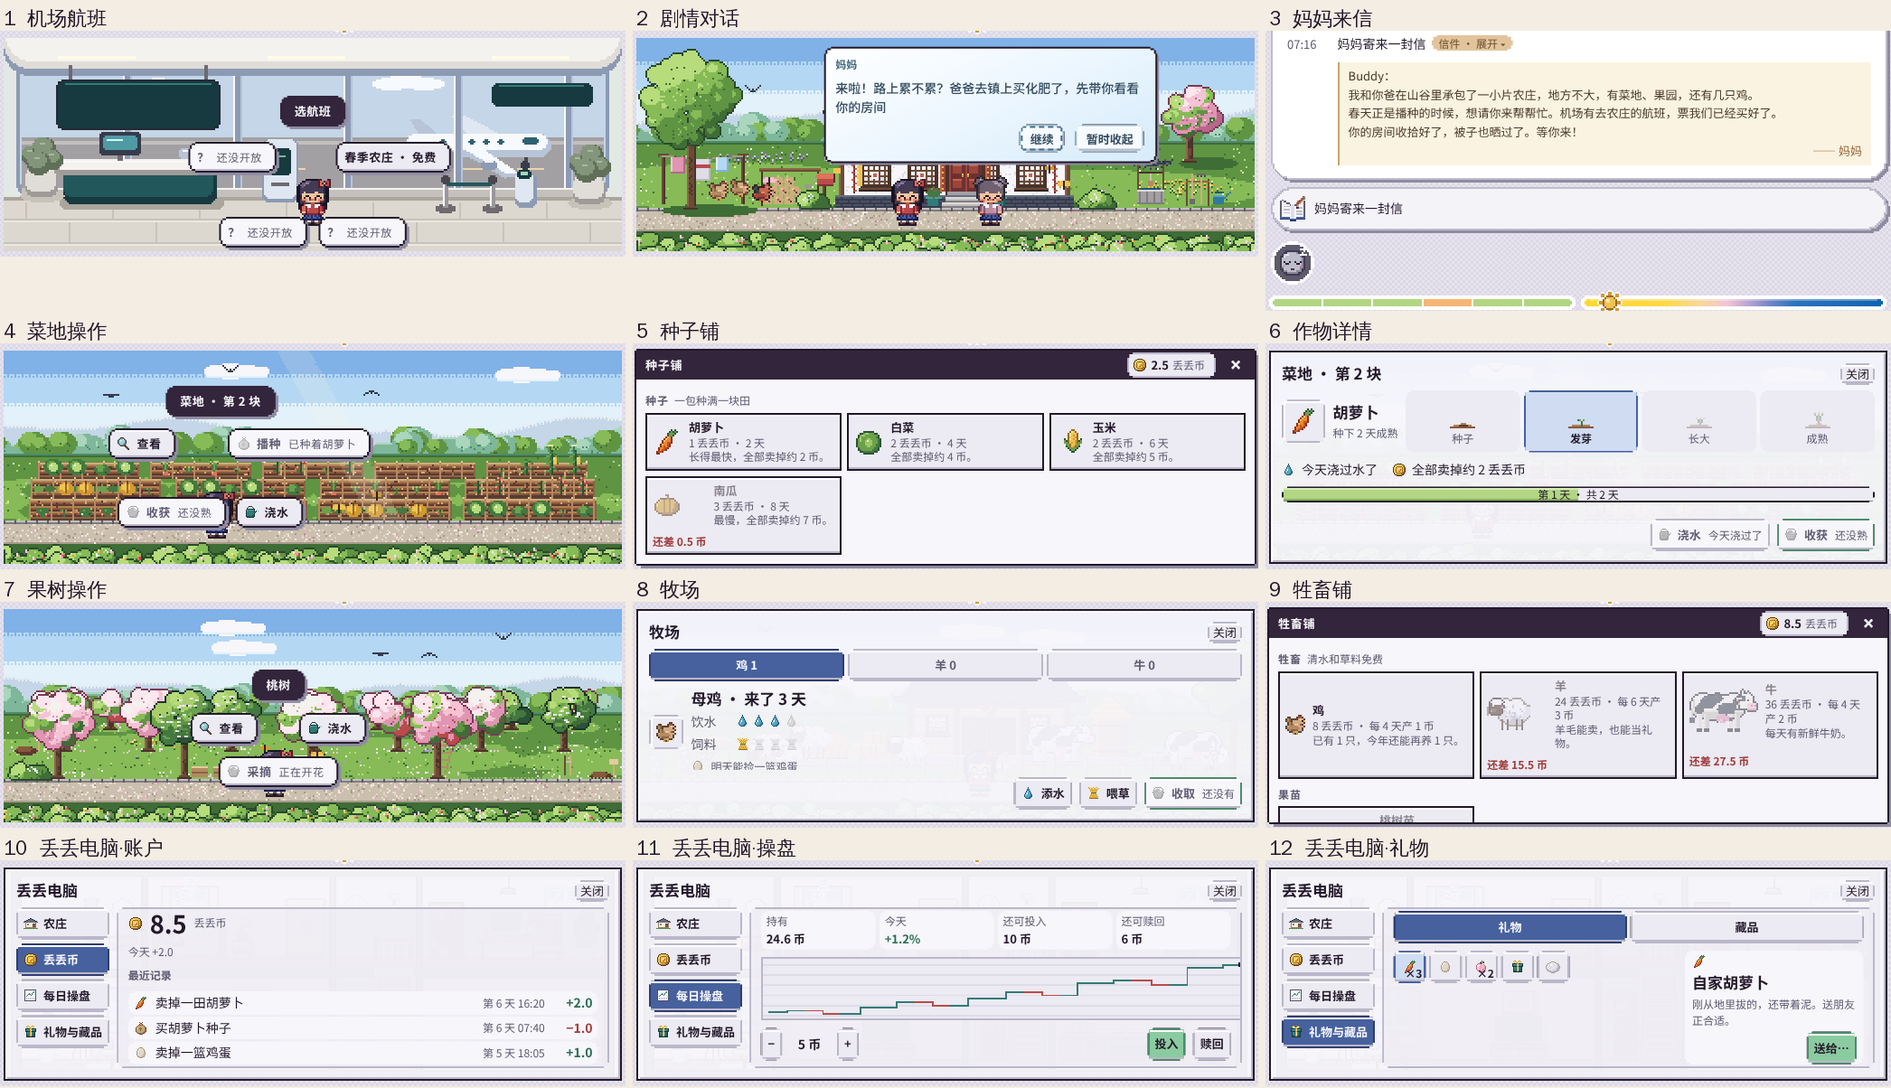
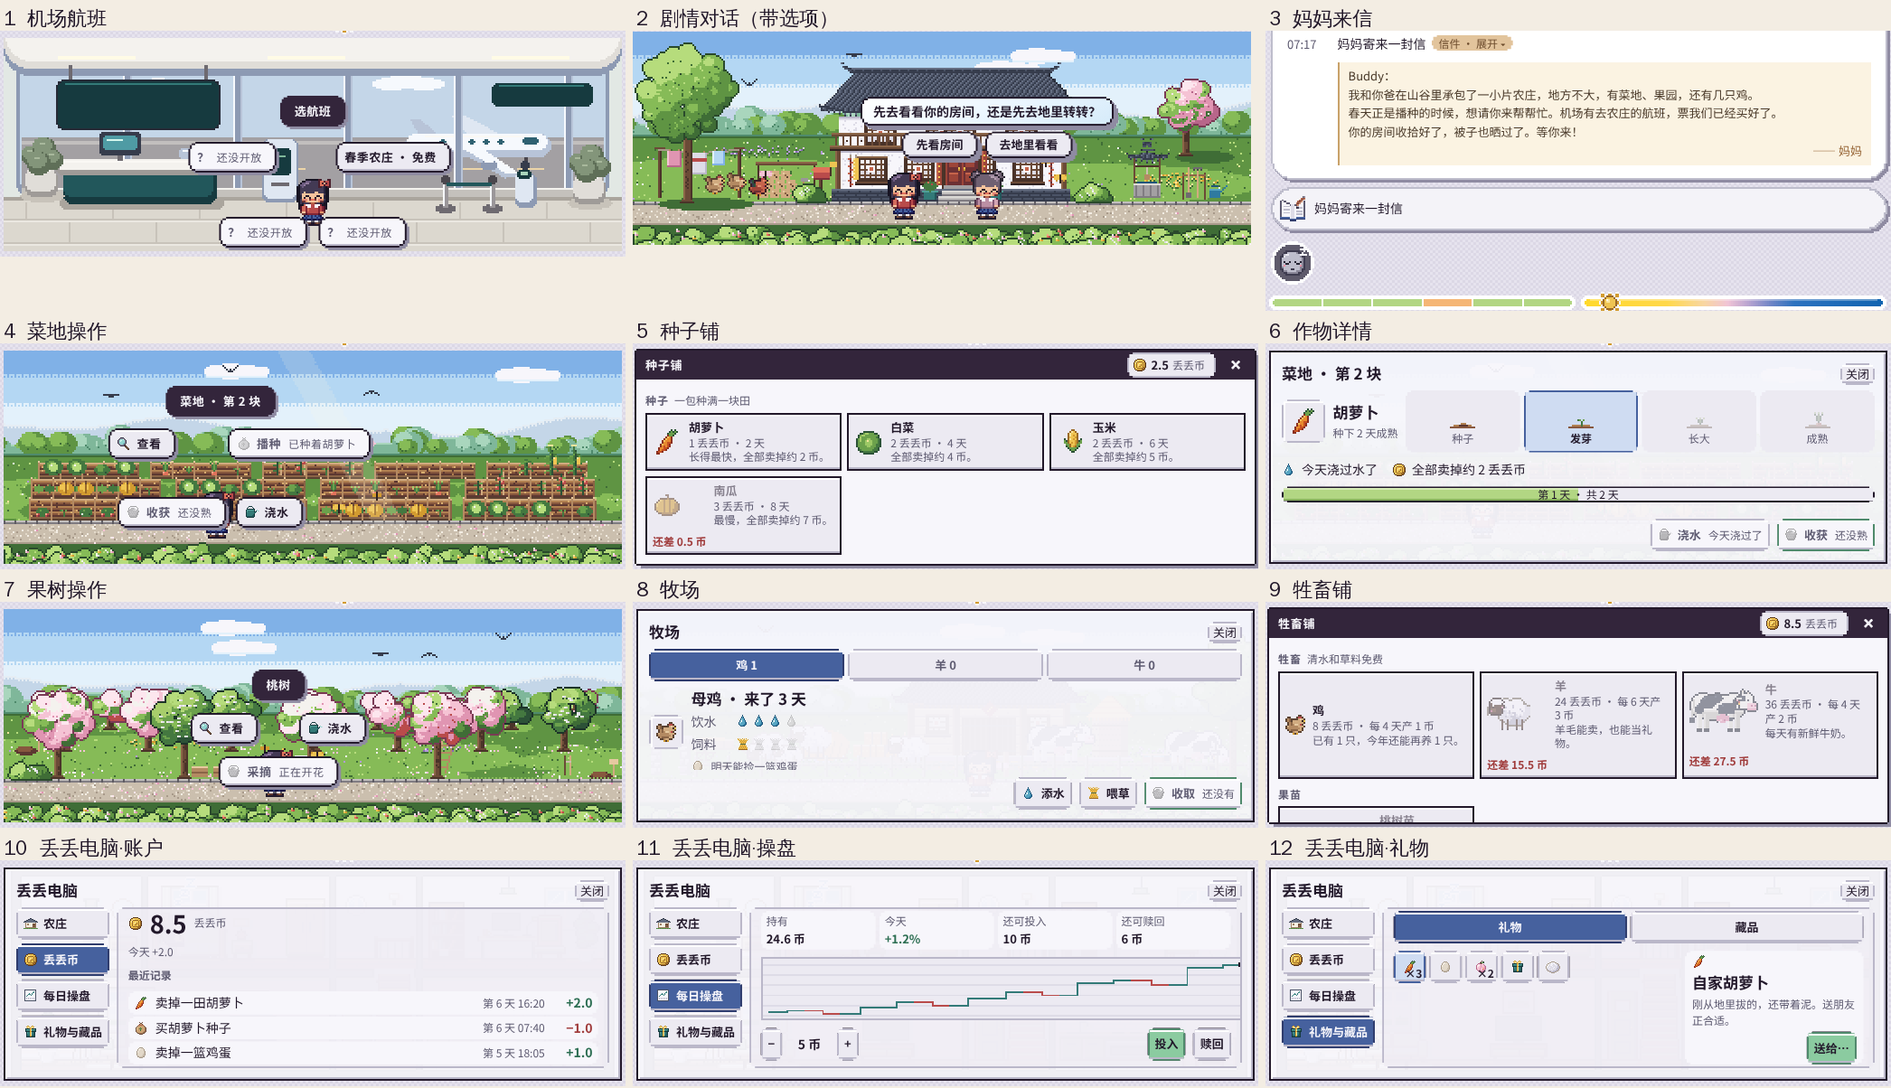
剧情对白改用 NPC 头顶小气泡：点气泡继续，选项画在气泡下面
Claude-Session: https://claude.ai/code/session_01HP37xpvuwwsvGpZEAk6w5s

Changed region(s): [[0.3107, 0.0, 0.6836, 0.2458]]

diff --git a/prototype/demo/story_bubbles.js b/prototype/demo/story_bubbles.js
@@ -1,22 +1,39 @@
-// Shared story speech uses the native NPC pill skin/motion; never a full-scene panel.
+// Story speech IS the native NPC pill (owner, 2026-11-02): the same small rounded
+// bubble strangers talk in, over the speaker's head. No panel, no 继续 button: click
+// the bubble (or Enter / Space) for the next line; a blinking pixel ▼ says there is
+// more. Choices are pills right under the bubble. Esc folds it away (onClose).
+// Quest lines tint the bubble white -> pale blue. Off-screen speakers are named and
+// stay where they are (the bubble sits at the top of the scene), never teleported.
 function createStorySpeech({view,host=view.parentElement,anchor,onClose=()=>{}}){
- const el=document.createElement('section');el.className='npcsay story-speech';el.hidden=true;
+ const el=document.createElement('section');el.className='story-speech';el.hidden=true;
  el.setAttribute('role','dialog');el.setAttribute('aria-label','剧情对话');
- const name=document.createElement('strong'),text=document.createElement('div'),actions=document.createElement('div');
- name.className='story-speaker';text.className='story-words';text.setAttribute('aria-live','polite');actions.className='story-actions';
- const next=document.createElement('button'),exit=document.createElement('button');next.type=exit.type='button';exit.textContent='暂时收起';exit.onclick=onClose;actions.append(next,exit);el.append(name,text,actions);host.append(el);
- let who='',previous=null;
+ const bubble=document.createElement('div'),name=document.createElement('span'),text=document.createElement('span'),more=document.createElement('i'),choices=document.createElement('div');
+ bubble.className='story-bubble';bubble.tabIndex=0;bubble.setAttribute('role','button');
+ name.className='story-speaker';text.className='story-words';text.setAttribute('aria-live','polite');more.className='story-more';more.setAttribute('aria-hidden','true');choices.className='story-choices';
+ bubble.append(name,text,more);el.append(bubble,choices);host.append(el);
+ let who='',previous=null,advance=null;
  function position(){if(el.hidden)return;const box=view.getBoundingClientRect(),parent=host.getBoundingClientRect(),s=box.width/342,p=anchor(who);
-  const visible=p&&p.x>=0&&p.x<=342&&p.y>=0&&p.y<=box.height/s;
-  name.textContent=who+(visible?'':' · 画外');el.dataset.remote=String(!visible);
-  el.style.width=Math.min(box.width-16,Math.max(250,box.width*.54))+'px';el.style.maxHeight=Math.max(90,box.height-12)+'px';
-  const x=visible?p.x*s:box.width/2,y=visible?(p.y-30)*s:box.height;
-  const w=el.offsetWidth,h=el.offsetHeight,left=Math.max(8,Math.min(box.width-w-8,x-w/2));
-  let top=y-h-7;if(top<6)top=Math.min(box.height-h-6,Math.max(6,y+34*s));
-  el.style.left=box.left-parent.left+left+w/2+'px';el.style.top=box.top-parent.top+Math.max(6,top)+h+'px';
+  const visible=!!p&&p.x>=0&&p.x<=342&&p.y>=0&&p.y<=box.height/s;
+  name.textContent=visible?'':who+'（画外）';name.hidden=visible;el.dataset.remote=String(!visible);
+  el.style.setProperty('--story-w',Math.round(Math.min(box.width-16,Math.max(170,box.width*.46)))+'px');
+  const w=el.offsetWidth,h=el.offsetHeight;
+  const x=Math.max(8+w/2,Math.min(box.width-8-w/2,visible?p.x*s:box.width/2));
+  const bottom=Math.max(h+4,visible?(p.y-29)*s:h+6*s);                            // just above the head
+  el.style.left=box.left-parent.left+x+'px';el.style.top=box.top-parent.top+Math.min(box.height-4,bottom)+'px';
  }
- function show(speaker,words,{special=true,last=false,advance}={}){if(el.hidden)previous=document.activeElement;who=speaker;el.hidden=false;el.classList.toggle('quest-speech',special);text.textContent=spokenText(words);next.textContent=last?'说完了':'继续';next.onclick=advance;position();next.focus({preventScroll:true});}
- function hide(){el.hidden=true;next.onclick=null;if(previous?.isConnected)previous.focus({preventScroll:true});previous=null;}
+ function show(speaker,words,{special=true,last=false,advance:next,choices:opts=null}={}){
+  if(el.hidden)previous=document.activeElement;who=speaker;advance=opts?null:next;
+  el.hidden=false;el.classList.toggle('quest-speech',special);el.classList.remove('pop');void el.offsetWidth;el.classList.add('pop');
+  text.textContent=spokenText(words);more.hidden=!!opts;bubble.dataset.last=String(last);
+  bubble.setAttribute('aria-label',`${speaker}：${text.textContent}${opts?'':last?'（点一下结束）':'（点一下继续）'}`);
+  choices.replaceChildren(...(opts||[]).map(o=>{const b=document.createElement('button');b.type='button';b.textContent=o.label;b.onclick=e=>{e.stopPropagation();o.on?.();};return b;}));
+  choices.hidden=!opts;position();(opts?choices.querySelector('button'):bubble).focus({preventScroll:true,focusVisible:false});
+ }
+ const go=e=>{if(!advance)return;e?.preventDefault?.();e?.stopPropagation?.();advance();};
+ bubble.addEventListener('click',go);
+ bubble.addEventListener('keydown',e=>{if(e.key==='Enter'||e.key===' ')go(e);});
+ el.addEventListener('keydown',e=>{if(e.key==='Escape'){e.preventDefault();e.stopPropagation();onClose();}});
+ function hide(){el.hidden=true;advance=null;choices.replaceChildren();if(previous?.isConnected)previous.focus({preventScroll:true});previous=null;}
  const observer=new ResizeObserver(position);observer.observe(view);window.addEventListener('resize',position);
  return {el,show,hide,position,get open(){return !el.hidden}};
 }

diff --git a/prototype/demo/ui.css b/prototype/demo/ui.css
@@ -836,8 +836,35 @@ button.fb-pill:focus-visible { outline: 2px dashed var(--fb-deep); outline-offse
 /* the pet's menu stands in one column (pet_hud.js petColumnLayout): pills one width */
 .ring.over-hud > button { min-width: 7.2em; text-align: center; }
 
-/* Story speech shares npcsay's pixel outline and pop-in, quest tint is opt-in. */
-.npcsay.quest-speech::after{background:linear-gradient(155deg,#fff 0%,#edf7ff 48%,#d6ebfa 100%)}
-.npcsay.story-speech{z-index:1800;pointer-events:auto;white-space:normal;box-sizing:border-box;padding:10px 13px;display:flex;flex-direction:column;gap:7px;font-size:max(13px,var(--ui-font-body));line-height:1.5;color:#344c60;overflow:visible}
-.story-speech[hidden]{display:none}.story-speaker{font-size:max(12px,var(--ui-font-caption));color:#42677f;flex:none}.story-words{overflow:auto;min-height:0;overflow-wrap:anywhere;font-weight:500}.story-actions{display:flex;justify-content:flex-end;gap:8px;flex:none}.story-actions button{font:inherit;font-size:max(12px,var(--ui-font-control));padding:4px 10px;background:#f7fbff;color:#344c60;border:2px solid #9db9ca;clip-path:var(--clip-btn);cursor:pointer}.story-actions button:focus-visible{outline:2px dashed #3c6e91;outline-offset:-4px}
-@media(prefers-reduced-motion:reduce){.story-speech{animation:none}}
+/* Story speech = the native NPC pill over the speaker's head (owner 2026-11-02):
+   same edge, fill, corners, shadow and pop-in as .npcsay; it only wraps longer lines.
+   Choices are ring-style pills under it. Quest lines: white -> pale blue fill. */
+.story-speech { position: absolute; z-index: 1800; width: max-content; transform: translate(-50%, -100%); display: flex; flex-direction: column; align-items: center; gap: 6px; pointer-events: none; }
+.story-speech[hidden] { display: none; }
+.story-speech.pop { animation: npcIn .32s cubic-bezier(.3, 1.6, .5, 1); }
+.story-bubble { position: relative; isolation: isolate; pointer-events: auto; cursor: pointer; width: max-content; max-width: var(--story-w, 260px); text-wrap: balance; box-sizing: border-box;
+  padding: 6px 14px; font-weight: 700; color: var(--ink); font-size: max(13px, var(--ui-font-body)); line-height: 1.45; white-space: normal; overflow-wrap: anywhere;
+  filter: drop-shadow(2px 2px 0 var(--shadow)); outline: none; }
+.story-bubble::before, .story-bubble::after { content: ""; position: absolute; z-index: -1; }
+.story-bubble::before { inset: 0; background: var(--edge); clip-path: var(--clip-btn); }
+.story-bubble::after { inset: 2px; background: var(--panel-2); clip-path: var(--clip-btn-in); }
+.story-speech.quest-speech .story-bubble::after { background: linear-gradient(155deg, #fff 0%, #edf7ff 48%, #d6ebfa 100%); }
+.story-bubble:focus-visible::before { background: #3c6e91; }
+.story-bubble .story-words { white-space: normal; overflow: visible; }
+.story-speaker { display: block; font-size: max(12px, var(--ui-font-caption)); color: var(--muted); }
+.story-speaker[hidden] { display: none; }
+/* a pixel ▼ (8x4 art px at 2x) blinking after the words: there is more */
+.story-more { display: inline-block; width: 8px; height: 6px; margin-left: 6px; vertical-align: middle; background: var(--muted);
+  clip-path: polygon(0 0, 8px 0, 8px 2px, 6px 2px, 6px 4px, 4px 4px, 4px 6px, 4px 6px, 4px 4px, 2px 4px, 2px 2px, 0 2px); animation: storyMore 1s steps(2, jump-none) infinite; }
+.story-more[hidden] { display: none; }
+@keyframes storyMore { 0% { opacity: 1; } 100% { opacity: .25; } }
+.story-choices { display: flex; gap: 8px; pointer-events: auto; }
+.story-choices[hidden] { display: none; }
+.story-choices button { position: relative; isolation: isolate; margin: 0; padding: 6px 16px; white-space: nowrap; background: none; border: 0; box-shadow: none; cursor: pointer;
+  font: inherit; font-weight: 700; color: var(--ink); font-size: max(13px, var(--ui-font-control)); filter: drop-shadow(2px 2px 0 var(--shadow)); }
+.story-choices button::before, .story-choices button::after { content: ""; position: absolute; z-index: -1; }
+.story-choices button::before { inset: 0; background: var(--edge); clip-path: var(--clip-btn); }
+.story-choices button::after { inset: 2px; background: var(--panel-2); clip-path: var(--clip-btn-in); box-shadow: inset 0 -2px 0 0 var(--bevel-lo), inset 0 2px 0 0 var(--bevel-hi); }
+.story-choices button:hover::after, .story-choices button:focus-visible::after { background: var(--panel); }
+.story-choices button:focus-visible::before { background: #3c6e91; }
+@media (prefers-reduced-motion: reduce) { .story-speech.pop { animation: none; } .story-more { animation: none; } }

diff --git a/tools/check_airport_ui.js b/tools/check_airport_ui.js
@@ -3,5 +3,5 @@ const {chromium}=require('playwright'),fs=require('fs'),assert=require('node:ass
  await p.getByRole('menuitem',{name:'春季农场',exact:true}).click();await p.waitForFunction(()=>airportTravel.flight.phase==='hold');await p.locator('.airport-flight-overlay').screenshot({path:'/workspace/artifacts/airport-ui/cabin.png'});const frozen=await p.evaluate(()=>({t:sim.t,needs:JSON.stringify(sim.needs)}));await p.waitForTimeout(400);assert.deepEqual(await p.evaluate(()=>({t:sim.t,needs:JSON.stringify(sim.needs)})),frozen);await p.waitForFunction(()=>sim.place==='spring_test'&&!wiping);let history=await p.evaluate(()=>airportTravel.flight.history);assert(history.find(x=>x.phase==='exit').at-history.find(x=>x.phase==='hold').at>=2000);assert.equal(history.filter(x=>x.phase==='exit').length,1);
  await p.evaluate(()=>throughDoor('home'));await p.waitForFunction(()=>airportTravel.flight.phase==='hold');await p.evaluate(()=>speed=0);const phase=await p.evaluate(()=>airportTravel.flight.phase);await p.waitForTimeout(300);assert.equal(await p.evaluate(()=>airportTravel.flight.phase),phase);await p.evaluate(()=>speed=1);await p.waitForFunction(()=>sim.place==='home'&&!wiping);
  await p.evaluate(()=>{seasonMapTest.start('autumn_test');sim.windup=null;startAct('go_out');sim.s=sim.target;arrive()});await p.waitForFunction(()=>sim.place==='autumn_test'&&!wiping);
- for(const size of [25,50,75,100]){await p.evaluate(size=>{prefs.scale=size;fit();seasonMapTest.ctl().converse('jian')},size);await p.waitForTimeout(400);const box=await p.evaluate(()=>{const el=document.querySelector('.story-speech'),a=el.getBoundingClientRect(),v=view.getBoundingClientRect(),t=el.querySelector('.story-words');return {left:a.left-v.left,right:v.right-a.right,top:a.top-v.top,bottom:v.bottom-a.bottom,fs:parseFloat(getComputedStyle(t).fontSize),gradient:getComputedStyle(el,'::after').backgroundImage,modal:!seasonMapTest.ctl().modal.hidden}});assert(box.left>=-1&&box.right>=-1&&box.top>=-1&&box.bottom>=-1,JSON.stringify({size,box}));assert(box.fs>=13&&box.gradient.includes('linear-gradient')&&!box.modal,JSON.stringify(box));if(size===50)await p.locator('#widget').screenshot({path:'/workspace/artifacts/airport-ui/story.png'});await p.locator('.story-actions button').first().click();await p.keyboard.press('Escape');assert(!await p.locator('.story-speech').isVisible());}
+ for(const size of [25,50,75,100]){await p.evaluate(size=>{prefs.scale=size;fit();seasonMapTest.ctl().converse('jian')},size);await p.waitForTimeout(400);const box=await p.evaluate(()=>{const el=document.querySelector('.story-speech'),a=el.getBoundingClientRect(),v=view.getBoundingClientRect(),t=el.querySelector('.story-words');return {left:a.left-v.left,right:v.right-a.right,top:a.top-v.top,bottom:v.bottom-a.bottom,fs:parseFloat(getComputedStyle(t).fontSize),gradient:getComputedStyle(el.querySelector('.story-bubble'),'::after').backgroundImage,modal:!seasonMapTest.ctl().modal.hidden}});assert(box.left>=-1&&box.right>=-1&&box.top>=-1&&box.bottom>=-1,JSON.stringify({size,box}));assert(box.fs>=13&&box.gradient.includes('linear-gradient')&&!box.modal,JSON.stringify(box));if(size===50)await p.locator('#widget').screenshot({path:'/workspace/artifacts/airport-ui/story.png'});await p.locator('.story-bubble').click();await p.keyboard.press('Escape');assert(!await p.locator('.story-speech').isVisible());}
  await p.evaluate(()=>{prefs.scale=50;fit();seasonMapTest.ctl().converse('qing')});assert.equal(await p.locator('.story-speech').evaluate(e=>e.classList.contains('quest-speech')),false);await p.keyboard.press('Escape');assert.deepEqual(errors,[]);console.log('PASS airport UI: native ring locks, flights both ways, visible cabin >=2s, pause/frozen needs, four-scale story bubbles, gradient, ordinary skin, escape, no errors');}finally{await b.close()}})().catch(e=>{console.error(e);process.exitCode=1});

diff --git a/tools/check_autumn_game.js b/tools/check_autumn_game.js
@@ -18,7 +18,7 @@ const assert=require('node:assert/strict'),fs=require('fs'),{chromium}=require('
  // Simulation acceleration below moves along real graph segments, never teleports a route.
  async function finishRoute(){await p.evaluate(()=>{const c=seasonMapTest.ctl();c.state.paused=false;for(let i=0;i<10000&&(c.state.target||c.state.door);i++)c.tick(.1,.01)});}
  async function talk(id){await p.evaluate(id=>seasonMapTest.ctl().converse(id),id);await drain();}
- async function drain(){for(let i=0;i<35;i++){if(await p.locator('.story-speech').isVisible())await p.locator('.story-actions button').first().click();else if(await p.locator('.autumn-panel').isVisible())await p.locator('.autumn-actions button').first().click();else return;}throw Error('dialog did not end')}
+ async function drain(){for(let i=0;i<35;i++){if(await p.locator('.story-speech').isVisible())await p.locator('.story-bubble').click();else if(await p.locator('.autumn-panel').isVisible())await p.locator('.autumn-actions button').first().click();else return;}throw Error('dialog did not end')}
  // The requested left ascent is continuous; arrival reveals the distant mountains smoothly.
  const summit=await p.evaluate(()=>{const c=seasonMapTest.ctl(),spot=c.DATA.landmarks.find(p=>p.id==='lookout');c.state.paused=false;c.goTo(spot.x,spot.y);let maxJump=0;for(let i=0;i<12000&&(c.state.target||i<50);i++){const prev=c.state.camY;c.tick(.05,.05);maxJump=Math.max(maxJump,Math.abs(c.state.camY-prev))}for(let i=0;i<100;i++)c.tick(.016,.016);const out={x:c.state.x,y:c.state.y,want:spot,cam:c.state.camY,maxJump};c.reset();return out});assert.equal(summit.x,summit.want.x);assert.equal(summit.y,summit.want.y);assert(summit.cam<1&&summit.maxJump<30,JSON.stringify(summit));
  // River-only pixels change over time, independently from tree motion elsewhere in view.
@@ -43,7 +43,7 @@ const assert=require('node:assert/strict'),fs=require('fs'),{chromium}=require('
  await p.evaluate(()=>{const c=seasonMapTest.ctl();c.state.service=null;c.state.goal=null;sim.needs=Object.fromEntries(Object.keys(sim.needs).map(k=>[k,95]));sim.t=720});
  // Approved story can be completed explicitly, preserving every chapter effect.
  for(const who of ['qing','zhou'])await talk(who);await p.evaluate(()=>seasonMapTest.ctl().converse('doctor'));
- for(let i=0;i<25;i++){if((await p.locator('.story-words').textContent()).startsWith('诊所里好几个'))break;await p.locator('.story-actions button').first().click()}
+ for(let i=0;i<25;i++){if((await p.locator('.story-words').textContent()).startsWith('诊所里好几个'))break;await p.locator('.story-bubble').click()}
  await p.keyboard.press('Escape');assert(!await p.locator('.autumn-panel').isVisible());assert.equal(await p.evaluate(()=>seasonMapTest.ctl().state.quest),1);await talk('qing');assert.equal(await p.evaluate(()=>seasonMapTest.ctl().state.stage),1);
  await talk('father');assert.equal(await p.evaluate(()=>seasonMapTest.ctl().state.stage),2);
  await talk('doctor');await talk('zhou');await talk('qing');assert.equal(await p.evaluate(()=>seasonMapTest.ctl().state.stage),3);

diff --git a/prototype/farm-ui/preview.js b/prototype/farm-ui/preview.js
@@ -49,6 +49,9 @@ const farmPreview = (() => {
     2() { stage = { back: "home", hero: [150, 103], mom: [196, 103] };
       speech ||= createStorySpeech({ view, anchor: who => who === "妈妈" ? { x: 196, y: 103 } : { x: 150, y: 103 } });
       speech.show("妈妈", "来啦！路上累不累？爸爸去镇上买化肥了，先带你看看你的房间。", { special: true, advance: () => {} }); },
+    "2b"() { stage = { back: "home", hero: [150, 103], mom: [196, 103] };
+      speech ||= createStorySpeech({ view, anchor: who => who === "妈妈" ? { x: 196, y: 103 } : { x: 150, y: 103 } });
+      speech.show("妈妈", "先去看看你的房间，还是先去地里转转？", { special: true, choices: [{ label: "先看房间" }, { label: "去地里看看" }] }); },
     3() { log("妈妈寄来一封信", null, [["@letter", "妈妈"], ["", `${nameOf()}：`], ["", "我和你爸在山谷里承包了一小片农庄，地方不大，有菜地、果园，还有几只鸡。"],
         ["", "春天正是播种的时候，想请你来帮帮忙。机场有去农庄的航班，票我们已经买好了。"], ["", "你的房间收拾好了，被子也晒过了。等你来！"], ["", "—— 妈妈"]]);
       setDiaryOpen(true); setTimeout(() => document.querySelector("#diaryList .talk-btn")?.click(), 100); },

diff --git a/.claude/skills/pixel-art/SKILL.md b/.claude/skills/pixel-art/SKILL.md
@@ -1163,3 +1163,10 @@ Owner was angry that a generated image was offered as UI. Farm screens must be b
 game's own components (ring menus, picker, social-sheet, story bubbles, letters) and pixelkit
 icons (`farm_icons.py`, 16×16, integer scale); reuse farm map sprites for crops/trees/animals.
 Generated images are reference only, never assets. Details: `docs/FARM_UI.md`.
+
+### Story dialogue = the NPC pill itself (2026-11-02, owner correction)
+The big rounded story box with 继续 / 暂时收起 buttons was rejected. Story lines use the SAME small
+pill as `.npcsay` over the speaker's head (edge, fill, corners, shadow, pop-in), wrapping long lines
+(balanced). Click the bubble / Enter / Space = next line; a blinking pixel ▼ marks more. Choices are
+pills directly under the bubble. Esc folds it away. Quest lines keep the white→pale-blue fill.
+Off-screen speakers: bubble at the scene top, named "X（画外）". `story_bubbles.js`, ui.css.

diff --git a/docs/AGENT_LOG.md b/docs/AGENT_LOG.md
@@ -7,6 +7,12 @@ owner decisions made, what was not tested. Keep older entries; trim beyond ~40 e
 ---
 
 ## 2026-11-02 · Claude Code
+- Owner correction: story dialogue must be the native NPC pill, not a big box. story_bubbles.js/ui.css
+  rewritten: pill over speaker's head, click/Enter = next, pixel ▼, choices as pills underneath, Esc
+  folds. Same API (+choices); autumn/spring/summer callers unchanged. Tests switched to .story-bubble.
+- check_autumn_game + check_airport_ui pass (4 scales); farm UI board tile 2 updated. Rule in pixel-art skill.
+
+## 2026-11-02 · Claude Code
 - Owner rejected generated concept board as implementation; drew game-ready farm UI: 25 pixelkit
   icons (farm_icons.py) + farm_ui.js/.css using native ring / picker / social-sheet / story bubbles /
   letters for all 12 screens. Review build make_farm_ui_preview.py + check_farm_ui.js; board

diff --git a/docs/FARM_UI.md b/docs/FARM_UI.md
@@ -10,7 +10,7 @@
 | # | 界面 | 用的现有组件 |
 |---|---|---|
 | 1 | 机场航班 | 环形菜单（一圈气泡）：春季农庄 · 免费，三个 ？ 灰掉 |
-| 2 | 剧情对话 | `story_bubbles.js` 说话人头顶气泡，任务对白白→浅蓝 |
+| 2 | 剧情对话 | 就是 NPC 头顶的小胶囊气泡（`story_bubbles.js`）：点气泡继续，有选项时气泡下面并排两个选项气泡，Esc 收起；任务对白白→浅蓝 |
 | 3 | 妈妈来信 | 写信日信件（日记里「信件 · 展开」），票已由父母买好 |
 | 4/7 | 菜地 / 果树操作 | 环形菜单 + 图标；不能做的项灰掉并写原因 |
 | 5/9 | 种子铺 / 牲畜铺 | 物品面板（`#picker`），标题栏丢丢币余额，钱不够写「还差 x 币」 |
